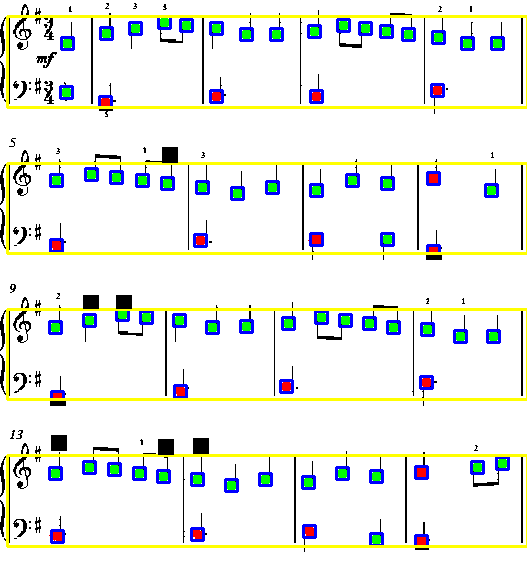
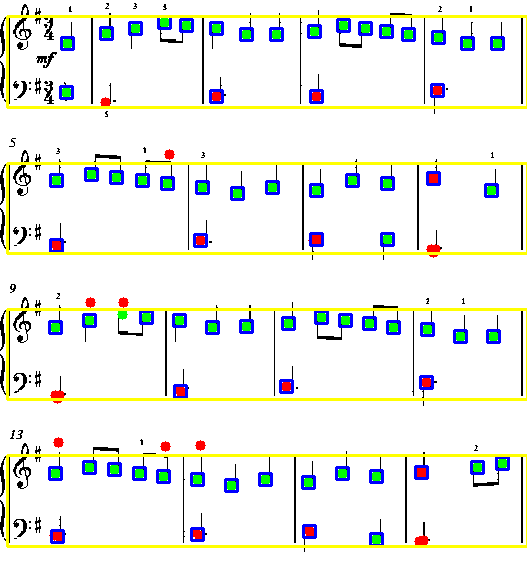
removed false positives boundbox blue

diff --git a/musicalnoteidentification.py b/musicalnoteidentification.py
@@ -1,8 +1,7 @@
 import cv2
 import numpy as np
 
-
-def check_notehead_attached_to_stem(image_path, save_path):
+def check_notehead_attached_to_stem(image_path, save_path, bar_boxes):
     print(f"Loading processed image from: {image_path}")
 
     # Load the image
@@ -41,8 +40,16 @@ def check_notehead_attached_to_stem(image_path, save_path):
         cx, cy = x + w // 2, y + h // 2
         x1, y1, x2, y2 = cx - 6, cy - 6, cx + 6, cy + 6
 
-        # Draw bounding box on the image
-        cv2.rectangle(image, (x1, y1), (x2, y2), (255, 0, 0), 2)
+        # Check if the bounding box is within a yellow box (bar_boxes)
+        inside_any_bar = False
+        for bx, by, bw, bh in bar_boxes:
+            if bx <= x1 and by <= y1 and (bx + bw) >= x2 and (by + bh) >= y2:
+                inside_any_bar = True
+                break
+
+        if inside_any_bar:
+            # Draw bounding box on the image (only if inside yellow box)
+            cv2.rectangle(image, (x1, y1), (x2, y2), (255, 0, 0), 2)
 
         # Check if any detected stem (vertical line) intersects this box
         if lines is not None:
@@ -65,18 +72,20 @@ def check_notehead_attached_to_stem(image_path, save_path):
 
     return attached_noteheads
 
+
+
 def draw_boundingbox(barboundbox_image_path, notehead_image_path, output_path):
     # Load the barboundbox image (with the green bounding boxes)
     barboundbox_image = cv2.imread(barboundbox_image_path)
     if barboundbox_image is None:
         print(f"Error: Could not load {barboundbox_image_path}")
-        return
+        return None
 
     # Load the notehead image
     notehead_image = cv2.imread(notehead_image_path)
     if notehead_image is None:
         print(f"Error: Could not load {notehead_image_path}")
-        return
+        return None
 
     # Define the lower and upper bounds for the green color in BGR format
     lower_green = np.array([0, 200, 0])  # Lower bound for green
@@ -88,55 +97,24 @@ def draw_boundingbox(barboundbox_image_path, notehead_image_path, output_path):
     # Find contours of the green bounding boxes
     contours, _ = cv2.findContours(mask, cv2.RETR_EXTERNAL, cv2.CHAIN_APPROX_SIMPLE)
 
+    bar_boxes = []
     if not contours:
         print("No green bounding boxes found in the barboundbox image.")
-        return
+        return None
 
-    # Draw all yellow bounding boxes on the notehead image and store their coordinates
-    yellow_boxes = []
+    # Draw all yellow bounding boxes on the notehead image
     for contour in contours:
-        # Get the bounding box coordinates for each contour
         x, y, w, h = cv2.boundingRect(contour)
-        # Draw the bounding box on the notehead image
         cv2.rectangle(notehead_image, (x, y), (x + w, y + h), (0, 255, 255), 2)  # Yellow color in BGR
-        # Store the yellow bounding box coordinates
-        yellow_boxes.append((x, y, x + w, y + h))
-
-    # Remove blue bounding boxes or red dots outside the yellow bounding boxes
-    # Define the lower and upper bounds for blue and red colors
-    lower_blue = np.array([200, 0, 0])  # Lower bound for blue
-    upper_blue = np.array([255, 100, 100])  # Upper bound for blue
-    lower_red = np.array([0, 0, 200])  # Lower bound for red
-    upper_red = np.array([100, 100, 255])  # Upper bound for red
-
-    # Create masks for blue and red colors
-    mask_blue = cv2.inRange(notehead_image, lower_blue, upper_blue)
-    mask_red = cv2.inRange(notehead_image, lower_red, upper_red)
-
-    # Combine the blue and red masks
-    mask_combined = cv2.bitwise_or(mask_blue, mask_red)
-
-    # Find contours of the blue bounding boxes and red dots
-    contours_combined, _ = cv2.findContours(mask_combined, cv2.RETR_EXTERNAL, cv2.CHAIN_APPROX_SIMPLE)
-
-    for contour in contours_combined:
-        # Get the bounding box coordinates for each blue/red contour
-        x, y, w, h = cv2.boundingRect(contour)
-        # Check if the center of the blue/red contour is inside any yellow bounding box
-        cx, cy = x + w // 2, y + h // 2  # Center of the blue/red contour
-        inside_yellow_box = False
-        for yellow_box in yellow_boxes:
-            x1, y1, x2, y2 = yellow_box
-            if x1 <= cx <= x2 and y1 <= cy <= y2:
-                inside_yellow_box = True
-                break
-        # If the blue/red contour is not inside any yellow bounding box, remove it
-        if not inside_yellow_box:
-            cv2.rectangle(notehead_image, (x, y), (x + w, y + h), (0, 0, 0), -1)  # Fill with black to remove
+        bar_boxes.append((x, y, w, h))  # Store bounding box
 
     # Save the result
     cv2.imwrite(output_path, notehead_image)
     print(f"Filtered bounding boxes and saved to {output_path}")
+
+    return bar_boxes  # Return bounding box list
+
+
 
 
 def draw_yellow_line_on_beam(lines_image_path, notehead_image_path, output_path):

diff --git a/main.py b/main.py
@@ -49,25 +49,23 @@ def main():
             bar_lines_path = os.path.join(bar_folder, 'bar_bounding_boxes.png')
             finalz_output_path = os.path.join(result_folder, 'notehead_with_yellow_and_bar_line.png')
 
-            # Process noteheads and attach stem
-            if os.path.exists(notehead_blobs_path):
-                check_notehead_attached_to_stem(notehead_blobs_path, result_path)
+            if os.path.exists(bar_lines_path):
+                bar_boxes = draw_boundingbox(bar_lines_path, result_path, finalz_output_path)
+            else:
+                bar_boxes = None
 
-                # Draw yellow line on beam
+            if os.path.exists(notehead_blobs_path):
+                if bar_boxes:
+                    check_notehead_attached_to_stem(notehead_blobs_path, result_path, bar_boxes)
+                else:
+                    print("Skipping notehead processing because no bar bounding boxes were found.")
+
                 if os.path.exists(beam_lines_path):
                     draw_yellow_line_on_beam(beam_lines_path, result_path, final_output_path)
                 else:
                     print(f"Error: Beam detection output not found at {beam_lines_path}")
-
             else:
                 print(f"Error: Notehead blob image not found at {notehead_blobs_path}")
-
-            # Always process bar lines if the file exists (moved outside else)
-            if os.path.exists(bar_lines_path):
-                draw_boundingbox(bar_lines_path, result_path, finalz_output_path)
-            else:
-                print(f"Error: Bar detection output not found at {bar_lines_path}")
-
 
 if __name__ == "__main__":
     main()
